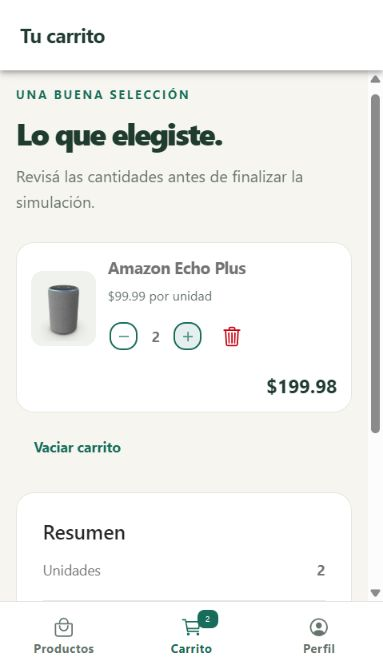
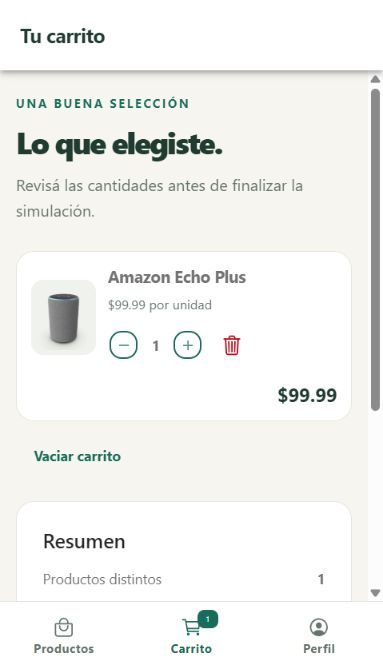
Actualiza capturas, resultados de pruebas y registro de autoría

diff --git a/README.md b/README.md
@@ -29,16 +29,16 @@ La compilación de producción se genera en `www/`. Esa carpeta y `node_modules/
 
 ## Funciones
 
-- **Productos:** catálogo JSON, búsqueda por texto, categoría, orden por nombre o precio, precio máximo, carga, error y reintento.
+- **Productos:** catálogo JSON validado, búsqueda por texto sin tildes y por categorías en español, filtro de stock, orden por nombre, precio o calificación, precio máximo, carga, error y reintento. Las imágenes fallidas usan un respaldo local.
 - **Carrito:** agregar, sumar, restar, quitar, vaciar con confirmación, contador de unidades y total en USD. La cantidad se limita al stock de demostración recibido de la API.
-- **Perfil:** formulario con nombre, correo y ciudad opcional, validación y guardado local.
+- **Perfil:** formulario con nombre, correo y ciudad opcional, mensajes de validación, guardado local y borrado con confirmación.
 - **Compra simulada:** una alerta explica que no se cobrará ni enviará nada. La confirmación vacía el carrito.
 
 El perfil y el carrito se conservan en `localStorage` del mismo navegador y origen. No hay cuentas, autenticación, base de datos, reservas de stock ni pedidos reales. Los datos del carrito son una copia local del catálogo, por lo que no constituyen una disponibilidad comercial actualizada.
 
 ## Fuente de datos
 
-[DummyJSON Products](https://dummyjson.com/docs/products), endpoint `https://dummyjson.com/products` con `limit=0` y selección de los campos utilizados. Nombres, descripciones, categorías e imágenes provienen de esa API y se mantienen en su idioma original. Precios de referencia en USD, sin conversión a guaraníes.
+[DummyJSON Products](https://dummyjson.com/docs/products), endpoint `https://dummyjson.com/products` con `limit=0` y selección de los campos utilizados. Nombres, descripciones e imágenes provienen de esa API. Las categorías se presentan en español mediante un mapa local, conservando sus identificadores originales para filtrar. Precios de referencia en USD, sin conversión a guaraníes.
 
 La URL se encuentra en **ambos** archivos:
 
@@ -92,12 +92,14 @@ Capturas reales de la aplicación en formato móvil; el perfil mostrado usa dato
 
 ## Verificación
 
-Se comprobaron la compilación de producción, ESLint y seis pruebas automatizadas sobre cantidades, totales, persistencia, datos corruptos, fallos de almacenamiento y respuestas HTTP. En navegador se probaron carga real del catálogo, búsqueda sin coincidencias, limpieza de filtros, navegación, cambios de cantidad, confirmación de simulación y persistencia del perfil y carrito al recargar.
+Se comprobaron la compilación de producción, ESLint y **13 pruebas automatizadas** sobre cantidades, totales en centavos, persistencia, datos corruptos o duplicados, fallos de almacenamiento, validación JSON, errores HTTP, filtros combinados, búsqueda sin tildes, orden y reintento. En navegador se probaron carga real del catálogo, búsqueda sin coincidencias, limpieza de filtros, navegación, cambios de cantidad, confirmación de simulación y persistencia del perfil y carrito al recargar. En la segunda revisión también se verificaron el filtro Solo con stock, las categorías traducidas y la cancelación del borrado del perfil.
+
+El [recorrido de pruebas manuales](docs/PRUEBAS-MANUALES.md) incluye los pasos y resultados esperados. [Captura del filtro de stock](docs/capturas/filtros.jpg).
 
 Para reproducir un fallo de red: abrir las herramientas de desarrollo del navegador, activar modo sin conexión y recargar Productos. Debe aparecer el error después de fallar la petición o cumplirse el tiempo de espera. Volver a conectar y pulsar Reintentar.
 
 ## Autoría y preparación de la entrega
 
-La asistencia de IA se declara en [IA.md](IA.md). No se garantiza un porcentaje de detección. Los commits corresponden a etapas reales de una sesión de trabajo asistido.
+La asistencia de IA se declara en [IA.md](IA.md). No se garantiza un porcentaje de detección. El historial contiene **20 commits** con cambios reales: **13** tienen a **Kevinn Rolón** como autor de Git y a **Codex** como coautor; los otros **7** tienen a Codex como autor. Esta atribución fue solicitada por el usuario y no representa 13 cambios escritos manualmente sin asistencia. No se modificaron las fechas ni los tres commits originales.
 
 Antes de entregar, Kevinn debe revisar y comprender el código, registrar las modificaciones personales que realmente realice y comprobar con el docente la aceptación de `@for` y el criterio de uso de IA. La [guía de estudio](docs/GUIA-DE-ESTUDIO.md) explica el recorrido de los datos y propone ejercicios para practicar.

diff --git a/IA.md b/IA.md
@@ -32,3 +32,10 @@ Los commits representan etapas reales de esta sesión, no días de trabajo ni au
 
 ## Autoría en Git
 Por solicitud de Kevinn Rolón, el historial final tendrá 20 commits: 13 con su nombre como autor de Git y Codex como coautor, y 7 con Codex como autor. El nombre del autor en Git no demuestra quién escribió manualmente el código. Los 17 cambios adicionales también se implementan con asistencia de IA y se crean en la fecha real, sin alterar las fechas anteriores.
+
+## Segunda solicitud y mejoras
+El usuario pidió: «necesito que tenga 20 commits de diferentes cambios y que 13 sean hechos por kevinn rolon». Se explicó que los 13 commits a su nombre incluirían a Codex como coautor y que eso no equivale a trabajo manual del estudiante.
+
+Se agregaron categorías en español, búsqueda sin tildes, filtro de stock, orden por calificación, respaldo de imágenes, mensajes de unidades, cálculo en centavos, borrado del perfil con confirmación, errores de formulario, contador de productos distintos, recuperación sin duplicados y validación del JSON. También se añadieron pruebas de filtros, mejoras de accesibilidad, instrucciones de verificación y capturas actualizadas.
+
+Todas estas modificaciones se realizaron con asistencia de Codex. La verificación final del 7 de noviembre de 2026 completó la compilación, ESLint y **13 pruebas** aprobadas en tres archivos. En navegador se comprobó que Solo con stock excluye artículos agotados, se muestran categorías traducidas y cancelar el borrado conserva el perfil.
